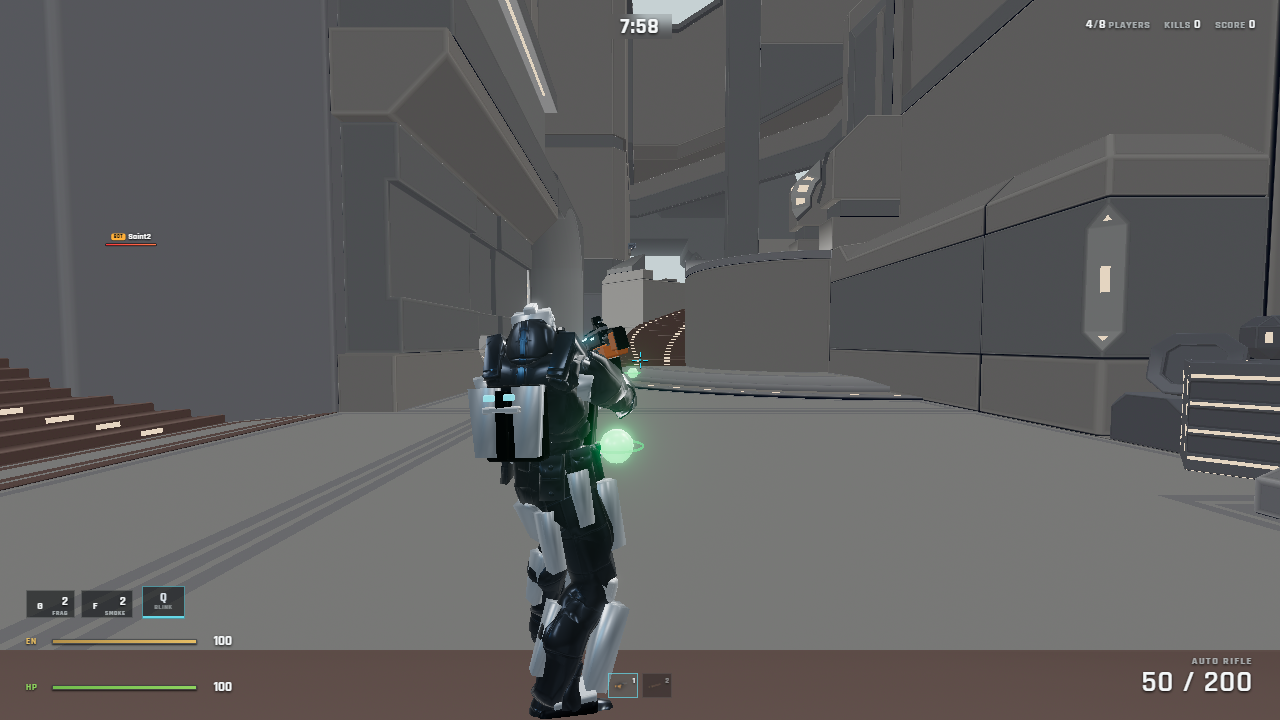
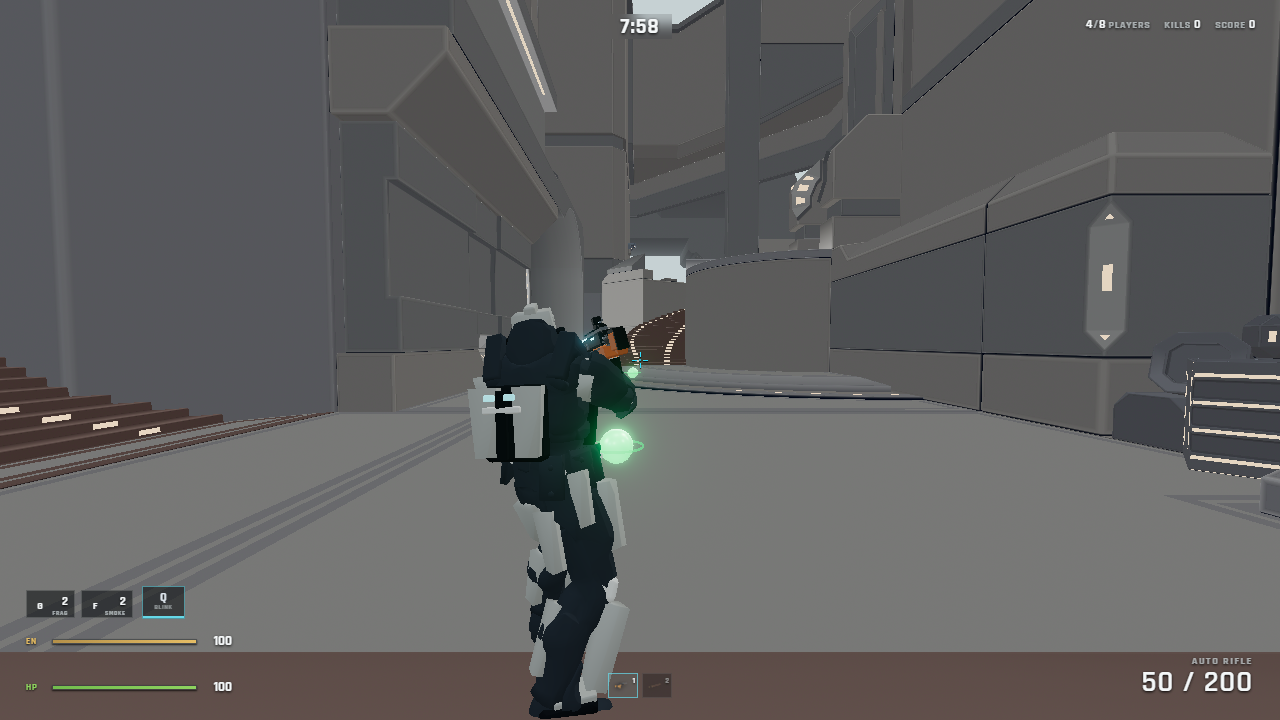
Match player materials to arena style

diff --git a/src/player/HumanSoldier.js b/src/player/HumanSoldier.js
@@ -29,6 +29,18 @@ let _template   = null;   // { scene, animations }
 let _loading    = false;
 const _callbacks = [];
 
+function _asMapToonMaterial(source) {
+  const material = new THREE.MeshToonMaterial({
+    color: source.color?.clone?.() ?? new THREE.Color(0x343a40),
+    transparent: source.transparent,
+    opacity: source.opacity,
+    alphaTest: source.alphaTest,
+    side: source.side,
+  });
+  material.name = source.name;
+  return material;
+}
+
 export function preloadHumanSoldier(onLoad) {
   if (onLoad) _callbacks.push(onLoad);
   if (_template) { onLoad?.(); return; }
@@ -69,9 +81,9 @@ const HEAD_SQUASH = new THREE.Vector3(0.82, 0.6, 0.86);
 // scale. This is what makes the loadout's armor cards each preview a different
 // "model" instead of the same green Chief four times.
 export const ARMOR_LOOKS = {
-  assault: { // bright silver exosuit with cyan energy glow (default)
-    body: 0xb9c4cf, visor: 0x38ddff,
-    roughness: 0.34, metalness: 0.70, scale: 1.00,
+  assault: { // matte warm-gray exosuit with restrained cyan signal light
+    body: 0xaeb3b5, visor: 0x79cbd6,
+    roughness: 0.78, metalness: 0.08, scale: 1.00,
   },
   recon: {   // sleek light-blue scout exo
     body: 0x2f6fae, visor: 0x36f0ff,
@@ -123,8 +135,9 @@ export function buildHumanSoldier(skin = null, armorTypeId = 'assault', armorSki
   const visorMats = [];
   root.traverse((o) => {
     if (o.isMesh && o.material) {
-      o.material = o.material.clone();
-      const n = (o.material.name || '') + ' ' + (o.name || '');
+      const source = o.material;
+      const n = (source.name || '') + ' ' + (o.name || '');
+      o.material = _asMapToonMaterial(source);
       if (/visor/i.test(n)) visorMats.push(o.material);
       else                  bodyMats.push(o.material);
     }
@@ -947,46 +960,18 @@ function _getDetailTex() {
   return _detailTex;
 }
 
-const _tintC = new THREE.Color();
 function _applyArmorLook(bodyMats, visorMats, look) {
-  _tintC.setHex(look.body);
-  const det = _getDetailTex();
   for (const m of bodyMats) {
-    if (m.map) {
-      // REALISTIC: keep the GLB's authored texture (skin, fatigues, gear, wear)
-      // and apply only a gentle tint so the armour variant still reads — instead
-      // of flattening the whole soldier to a solid plastic colour.
-      m.color.setRGB(0.68 + 0.32 * _tintC.r, 0.68 + 0.32 * _tintC.g, 0.68 + 0.32 * _tintC.b);
-      m.map.colorSpace = THREE.SRGBColorSpace;
-      m.map.anisotropy = 8;
-    } else {
-      // No authored texture — give the plate a realistic worn-metal albedo tinted
-      // to the variant colour.
-      m.color.setRGB(0.5 + 0.5 * _tintC.r, 0.5 + 0.5 * _tintC.g, 0.5 + 0.5 * _tintC.b);
-      m.map = det.map;
-    }
-    // Surface detail on every body material — adds depth even over a real albedo.
-    m.normalMap = det.normalMap;
-    m.normalScale = new THREE.Vector2(1.4, 1.4);
-    m.roughnessMap = det.roughnessMap;
-    m.roughness = Math.min(1, look.roughness + 0.1);
-    m.metalness = Math.min(1, look.metalness + 0.15); // shinier so the bevels read
-    m.envMapIntensity = 1.1;
-    // A tiny material-space fill keeps the rear silhouette readable when the
-    // arena's key light is entirely in front of the player. This is not a glow:
-    // it only lifts crushed blacks enough to separate arms, torso, and legs.
-    if (m.emissive) {
-      m.emissive.copy(_tintC).multiplyScalar(0.10);
-      m.emissiveIntensity = 0.22;
-    }
+    // Match the imported arena: clean graphite albedo with stepped toon light,
+    // no realistic fabric texture, scratches, normal map, or specular metal.
+    m.map = null;
+    m.color.setHex(0x30363c);
     m.needsUpdate = true;
   }
   for (const m of visorMats) {
     m.color.setHex(look.visor);
     m.emissive?.setHex?.(look.visor);
-    m.emissiveIntensity = 0.9;
-    m.metalness = 0.95;
-    m.roughness = 0.14;
+    m.emissiveIntensity = 0.48;
     m.needsUpdate = true;
   }
 }
@@ -1043,52 +1028,39 @@ function _buildArmorPieces(root, armorTypeId, look, armorSkin = null) {
   const plateColor = armorSkin?.primary ?? look.body;
   const underColor = armorSkin?.secondary ?? 0x0d1016;
   const glowColor = armorSkin?.emissive ?? look.visor;
-  const finishRoughness = armorSkin?.roughness ?? look.roughness ?? 0.5;
-  const finishMetalness = armorSkin?.metalness ?? 0.66;
-  const plate = new THREE.MeshStandardMaterial({
+  const plate = new THREE.MeshToonMaterial({
     color: new THREE.Color(plateColor).multiplyScalar(0.92),
-    emissive: new THREE.Color(plateColor).multiplyScalar(0.10),
-    emissiveIntensity: 0.24,
-    roughness: finishRoughness * 0.85, metalness: finishMetalness, envMapIntensity: 1.1,
   });
   plate.userData.armorRole = 'plate';
   const readableUnder = new THREE.Color(underColor).lerp(new THREE.Color(0x303844), 0.28);
-  const dark = new THREE.MeshStandardMaterial({
+  const dark = new THREE.MeshToonMaterial({
     color: readableUnder.clone().multiplyScalar(0.72),
-    emissive: readableUnder.clone().multiplyScalar(0.07), emissiveIntensity: 0.18,
-    roughness: 0.42, metalness: 0.82,
   });
   dark.userData.armorRole = 'dark';
-  const trim = new THREE.MeshStandardMaterial({
+  const trim = new THREE.MeshToonMaterial({
     color: new THREE.Color(plateColor).lerp(new THREE.Color(0xe8edf2), 0.58),
-    emissive: new THREE.Color(plateColor).multiplyScalar(0.06), emissiveIntensity: 0.16,
-    roughness: 0.24, metalness: 0.95, envMapIntensity: 1.25,
   });
   trim.userData.armorRole = 'trim';
-  const accent = new THREE.MeshStandardMaterial({
+  const accent = new THREE.MeshToonMaterial({
     color: glowColor, emissive: glowColor,
-    emissiveIntensity: armorSkin?.emissiveIntensity ?? 0.9,
-    roughness: 0.26, metalness: 0.5,
+    emissiveIntensity: armorSkin?.emissiveIntensity ?? 0.52,
   });
   accent.userData.armorRole = 'accent';
-  const cape = new THREE.MeshStandardMaterial({
-    color: readableUnder.clone().multiplyScalar(0.72), roughness: 0.92, metalness: 0.05,
+  const cape = new THREE.MeshToonMaterial({
+    color: readableUnder.clone().multiplyScalar(0.72),
     side: THREE.DoubleSide,
   });
   cape.userData.armorRole = 'dark';
   // Compact plate-coloured helmet shell over a recessed dark faceplate. The
   // shell joins the outer armor language while its small proportions avoid the
   // oversized round dome that made the previous body look toy-like.
-  const helmetMat = new THREE.MeshStandardMaterial({
+  const helmetMat = new THREE.MeshToonMaterial({
     color: new THREE.Color(plateColor).multiplyScalar(0.88),
-    emissive: new THREE.Color(plateColor).multiplyScalar(0.06), emissiveIntensity: 0.16,
-    roughness: finishRoughness * 0.92, metalness: finishMetalness, envMapIntensity: 1.15,
   });
   helmetMat.userData.armorRole = 'plate';
-  // Dark glossy visor glass — a near-black reflective faceplate (Halo/Titanfall
-  // style) so the face reads as a real visor, not a bright oval.
-  const visorMat = new THREE.MeshStandardMaterial({
-    color: 0x0a0e14, roughness: 0.12, metalness: 0.92, envMapIntensity: 1.3,
+  // Near-black toon faceplate: one quiet value block instead of reflective glass.
+  const visorMat = new THREE.MeshToonMaterial({
+    color: 0x11161b,
   });
   visorMat.userData.armorRole = 'visor';
 
@@ -1418,19 +1390,9 @@ export function tintHumanSoldier(group, skin, armorSkin = null) {
       else if (role === 'accent') {
         m.color.copy(glow);
         m.emissive?.copy?.(glow);
-        m.emissiveIntensity = armorSkin.emissiveIntensity ?? 0.9;
-      }
-      if (role === 'plate' || role === 'trim') {
-        m.emissive?.copy?.(plate).multiplyScalar(role === 'plate' ? 0.10 : 0.06);
-        m.roughness = armorSkin.roughness ?? m.roughness;
-        m.metalness = armorSkin.metalness ?? m.metalness;
+        m.emissiveIntensity = armorSkin.emissiveIntensity ?? 0.52;
       }
       m.needsUpdate = true;
     }
-  }
-  for (const m of mats) {
-    m.emissive?.copy?.(tint).multiplyScalar(0.10);
-    m.emissiveIntensity = 0.22;
-    m.needsUpdate = true;
   }
 }

diff --git a/src/player/ArmorSkins.js b/src/player/ArmorSkins.js
@@ -12,8 +12,8 @@ export const ARMOR_SKINS = [
     id: 'cobalt_circuit', name: 'Cobalt Circuit', rarity: 'common', starter: true,
     // Bright segmented shell over a graphite flex suit. The previous saturated
     // blue-on-black finish crushed the model into one dark military silhouette.
-    primary: 0xb9c4cf, secondary: 0x101721, emissive: 0x38ddff,
-    emissiveIntensity: 0.88, roughness: 0.34, metalness: 0.70, price: 0, shield: 0,
+    primary: 0xaeb3b5, secondary: 0x20252a, emissive: 0x79cbd6,
+    emissiveIntensity: 0.52, roughness: 0.78, metalness: 0.08, price: 0, shield: 0,
   },
   {
     id: 'crimson_guard', name: 'Crimson Guard', rarity: 'common', starter: true,
